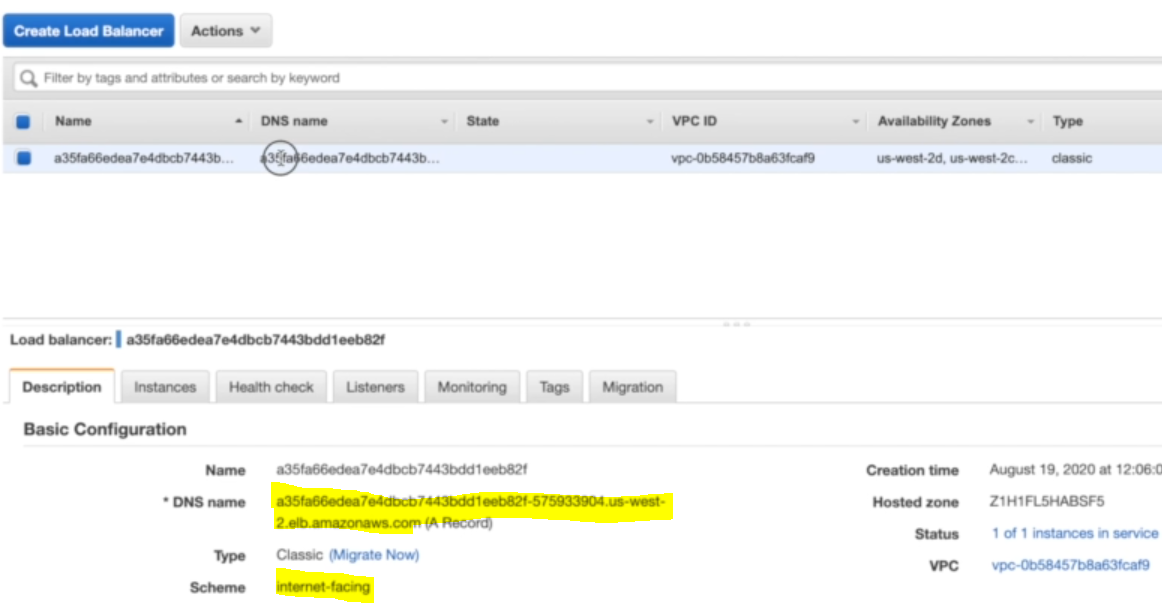
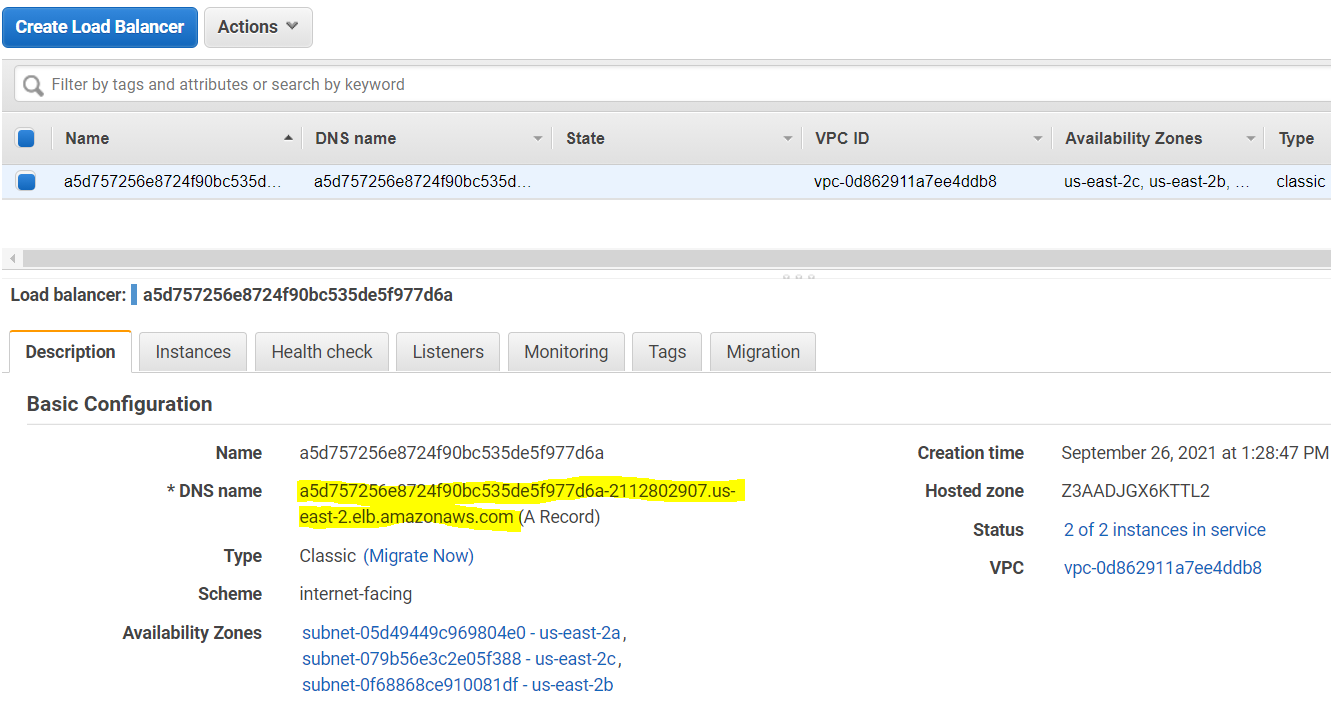
changes

diff --git a/Istio - Japan/2_Install/README.md b/Istio - Japan/2_Install/README.md
@@ -2,8 +2,10 @@
 # 2.1 Install Istio using istioctl
 ```sh
 # first install istioctl CLI
-curl -L https://istio.io/downloadIstio | ISTIO_VERSION=1.6.7 sh -
-cd istio-1.6.7
+URL: https://istio.io/latest/docs/ops/diagnostic-tools/istioctl/
+
+curl -L https://istio.io/downloadIstio | ISTIO_VERSION=1.11.3 sh -
+cd istio-1.11.3
 echo "export PATH=$PWD/bin:$PATH" >> ~/.bash_profile
 
 # open new shell to load updated PATH variable
@@ -28,50 +30,6 @@ istioctl profile list
 
 # save config into yaml
 istioctl profile dump demo > profile_demo_config.yaml
-```
-
-Output
-```sh
-apiVersion: install.istio.io/v1alpha1
-kind: IstioOperator
-spec:
-  addonComponents:
-    grafana:
-      enabled: true
-      k8s:
-        replicaCount: 1
-    istiocoredns:
-      enabled: false
-    kiali:
-      enabled: true
-      k8s:
-        replicaCount: 1
-    prometheus:
-      enabled: true
-      k8s:
-        replicaCount: 1
-    tracing:
-      enabled: true
-  components:
-    base:
-      enabled: true
-    citadel:
-      enabled: false
-      k8s:
-        strategy:
-          rollingUpdate:
-            maxSurge: 100%
-            maxUnavailable: 25%
-    cni:
-      enabled: false
-    egressGateways:
-    - enabled: true
-      k8s:
-        resources:
-          requests:
-            cpu: 10m
-            memory: 40Mi
-      name: istio-egressgateway
 ```
 
 ```sh
@@ -123,34 +81,22 @@ kubectl get pod,svc -n istio-system
 
 # output
 NAME                                        READY   STATUS    RESTARTS   AGE
-pod/grafana-5cc7f86765-krwvf                1/1     Running   0          5m51s
-pod/istio-egressgateway-5c8f9897f7-sfqg6    1/1     Running   0          29m
-pod/istio-ingressgateway-65dd885d75-bbqtn   1/1     Running   0          29m
-pod/istio-tracing-8584b4d7f9-whwjr          1/1     Running   0          5m39s
-pod/istiod-7d6dff85dd-w5szx                 1/1     Running   0          29m
-pod/kiali-696bb665-sngrt                    1/1     Running   0          5m43s
-pod/prometheus-564768879c-w55nb             2/2     Running   0          5m39s
+pod/istio-egressgateway-5fdc76bf94-lkmj8    1/1     Running   0          5m55s
+pod/istio-ingressgateway-6bd7764b48-kv9f6   1/1     Running   0          5m55s
+pod/istiod-675949b7c5-ml5gc                 1/1     Running   0          6m7s
 
-NAME                                TYPE           CLUSTER-IP       EXTERNAL-IP                                                              PORT(S)                                                                                                                                      AGE
-service/grafana                     ClusterIP      172.20.151.105   <none>                                                                   3000/TCP                                                                                                                                     5m50s
-service/istio-egressgateway         ClusterIP      172.20.208.92    <none>                                                                   80/TCP,443/TCP,15443/TCP                                                                                                                     29m
-service/istio-ingressgateway        LoadBalancer   172.20.170.225   aa7cfd0021476452ba8c3836365f2df3-478100139.us-east-1.elb.amazonaws.com   15020:31474/TCP,80:30046/TCP,443:31013/TCP,15029:31841/TCP,15030:31961/TCP,15031:30599/TCP,15032:30637/TCP,31400:31608/TCP,15443:32324/TCP   29m
-service/istio-pilot                 ClusterIP      172.20.97.20     <none>                                                                   15010/TCP,15011/TCP,15012/TCP,8080/TCP,15014/TCP,443/TCP                                                                                     29m
-service/istiod                      ClusterIP      172.20.236.155   <none>                                                                   15012/TCP,443/TCP                                                                                                                            29m
-service/jaeger-agent                ClusterIP      None             <none>                                                                   5775/UDP,6831/UDP,6832/UDP                                                                                                                   5m35s
-service/jaeger-collector            ClusterIP      172.20.177.164   <none>                                                                   14267/TCP,14268/TCP,14250/TCP                                                                                                                5m37s
-service/jaeger-collector-headless   ClusterIP      None             <none>                                                                   14250/TCP                                                                                                                                    5m36s
-service/jaeger-query                ClusterIP      172.20.116.249   <none>                                                                   16686/TCP                                                                                                                                    5m38s
-service/kiali                       ClusterIP      172.20.253.248   <none>                                                                   20001/TCP                                                                                                                                    5m45s
-service/prometheus                  ClusterIP      172.20.101.184   <none>                                                                   9090/TCP                                                                                                                                     5m41s
-service/tracing                     ClusterIP      172.20.143.171   <none>                                                                   80/TCP                                                                                                                                       5m33s
-service/zipkin                      ClusterIP      172.20.170.147   <none>                                                                   9411/TCP                                          
+NAME                           TYPE           CLUSTER-IP       EXTERNAL-IP                                                               PORT(S)
+                                                       AGE
+service/istio-egressgateway    ClusterIP      10.100.233.246   <none>                                                                    80/TCP,443/TCP        
+                                                       5m55s
+service/istio-ingressgateway   LoadBalancer   10.100.236.78    a5d757256e8724f90bc535de5f977d6a-2112802907.us-east-2.elb.amazonaws.com   15021:32297/TCP,80:32369/TCP,443:31035/TCP,31400:30002/TCP,15443:31727/TCP   5m55s
+service/istiod                 ClusterIP      10.100.243.65    <none>                                                                    15010/TCP,15012/TCP,443/TCP,15014/TCP                                        6m6s                                         
 ```
 
 
 Notice a service `istio-ingressgateway` in `istio-system` namespace created AWS ELB of type classic load balancer
 ```
-service/istio-ingressgateway        LoadBalancer   10.100.229.231   a5a1acc36239d46038f3dd828465c946-706040707.us-west-2.elb.amazonaws.com   15020:32676/TCP,80:32703/TCP,443:30964/TCP,31400:30057/TCP,15443:32059/TCP   15m
+service/istio-ingressgateway   LoadBalancer   10.100.236.78    a5d757256e8724f90bc535de5f977d6a-2112802907.us-east-2.elb.amazonaws.com   15021:32297/TCP,80:32369/TCP,443:31035/TCP,31400:30002/TCP,15443:31727/TCP   5m55s
 ```
 
 Check AWS ELB created by istio ingress gateway service
@@ -158,7 +104,7 @@ Check AWS ELB created by istio ingress gateway service
 ![alt text](../imgs/ingress_gateway_aws_elb.png "Istio")
 
 
-Also notice a pod `istiod-7d6dff85dd-w5szx`. 
+Also notice a pod `istiod-675949b7c5-ml5gc`. 
 This is the pod that contains istio pilot (service discovery), Galley (config), sidecar injector, that is `istiod`.
 > istiod unifies functionality that Pilot, Galley, Citadel and the sidecar injector previously performed, into a single binary
 

diff --git a/Istio - Japan/4_Deploy_Apps/README.md b/Istio - Japan/4_Deploy_Apps/README.md
@@ -1,7 +1,7 @@
 # 4. Deploy Sample App to EKS and Expose Service using Ingress
 
 Refs: 
-- https://github.com/kubernetes/examples/tree/master/guestbook
+- https://github.com/kubernetes/examples/tree/master/guestbook/all-in-one
 
 ![alt text](../imgs/guestbook_architecture.png "K8s Architecture")
 
@@ -15,23 +15,17 @@ Backend Redis
 - multi slaves (read)
 - slaves sync continuously from master
 
-+++ NEW +++
+
 ```
 kubectl apply -f guestbook-all-in-one.yaml
 ```
-+++ NEW +++
-
-![alt text](../imgs/guestbook_install.png "Guestbook")
-
-
-
 
 ## 4.4 Get external ELB DNS
 ```sh
-echo $(kubectl  get svc guestbook | awk '{ print $4 }' | tail -1):$(kubectl  get svc guestbook | awk '{ print $5 }' | tail -1 | cut -d ":" -f 1)
+echo $(kubectl  get svc frontend | awk '{ print $4 }' | tail -1):$(kubectl  get svc frontend | awk '{ print $5 }' | tail -1 | cut -d ":" -f 1)
 
 # output
-a24ac71d1c2e046f59e46720494f5322-359345983.us-west-2.elb.amazonaws.com:3000
+a8274ce21a7f94416a5b6214f6f50205-1187236704.us-east-2.elb.amazonaws.com:80
 ```
 
 Visit it from browser __after 3-5 minutes when ELB is ready__
@@ -51,28 +45,41 @@ helm repo update
 
 kubectl create namespace nginx-ingress-controller
 helm install nginx-ingress-controller nginx-stable/nginx-ingress -n nginx-ingress-controller
+k -n nginx-ingress-controller get pods,svc,deploy
 ```
+Output
+```bash
+NAME                                                          READY   STATUS    RESTARTS   AGE
+pod/nginx-ingress-controller-nginx-ingress-7ffc9b45c7-c2ctt   1/1     Running   0          30s
 
+NAME                                             TYPE           CLUSTER-IP       EXTERNAL-IP                                                               PORT(S)                      AGE
+service/nginx-ingress-controller-nginx-ingress   LoadBalancer   10.100.238.201   a920ec60b98b04397b3664926be309a3-1107836477.us-east-2.elb.amazonaws.com   80:30973/TCP,443:31900/TCP   31s
 
+NAME                                                     READY   UP-TO-DATE   AVAILABLE   AGE
+deployment.apps/nginx-ingress-controller-nginx-ingress   1/1     1            1           31s
+```
 ## 4.7 Create Ingress resource for L7 load balancing by http hosts & paths
 
 [ingress.yaml](ingress.yaml)
 ```yaml
-apiVersion: extensions/v1beta1
-  kind: Ingress
-  metadata:
-    annotations:
-      kubernetes.io/ingress.class: nginx
-    name: guestbook
-    namespace: default
-  spec:
-    rules:
-      - http:
-          paths:
-            - backend:
-                serviceName: guestbook
-                servicePort: 3000 
-              path: /
+apiVersion: networking.k8s.io/v1
+kind: Ingress
+metadata:
+  name: frontend
+  annotations:
+    kubernetes.io/ingress.class: "nginx"
+    nginx.ingress.kubernetes.io/rewrite-target: /
+spec:
+  rules:
+  - http:
+      paths:
+      - path: /
+        pathType: Prefix
+        backend:
+          service:
+            name: frontend
+            port:
+              number: 80
 ```
 
 Create ingress resource
@@ -82,13 +89,13 @@ kubectl apply -f ingress.yaml
 
 Get the public DNS of AWS ELB created from the `nginx-ingress-controller-controller` service
 ```bash
-kubectl  get svc nginx-ingress-controller-controller -n nginx-ingress-controller | awk '{ print $4 }' | tail -1
+kubectl  get svc nginx-ingress-controller-nginx-ingress -n nginx-ingress-controller | awk '{ print $4 }' | tail -1
 ```
 
 Output
 ```bash
 # visit this from browser
-a588cbec4e4e34e1bbc1cc066f38e3e0-1988798789.us-west-2.elb.amazonaws.com
+a920ec60b98b04397b3664926be309a3-1107836477.us-east-2.elb.amazonaws.com
 ```
 
 ![alt text](../imgs/guestbook_ui_from_ingress.png "K8s Architecture")
@@ -99,43 +106,7 @@ Now modify `guestbook` service type from `LoadBalancer` to `NodePort`.
 
 First get yaml 
 ```bash
-kubectl get svc guestbook -o yaml
-```
-
-Output
-```yaml
-apiVersion: v1
-kind: Service
-metadata:
-  annotations:
-    kubectl.kubernetes.io/last-applied-configuration: |
-      {"apiVersion":"v1","kind":"Service","metadata":{"annotations":{},"labels":{"app":"guestbook"},"name":"guestbook","namespace":"default"},"spec":{"ports":[{"port":3000,"targetPort":"http-server"}],"selector":{"app":"guestbook"},"type":"LoadBalancer"}}
-  creationTimestamp: "2020-06-13T14:20:12Z"
-  finalizers:
-  - service.kubernetes.io/load-balancer-cleanup
-  labels:
-    app: guestbook
-  name: guestbook
-  namespace: default
-  resourceVersion: "14757"
-  selfLink: /api/v1/namespaces/default/services/guestbook
-  uid: 24ac71d1-c2e0-46f5-9e46-720494f5322b
-spec:
-  clusterIP: 10.100.36.45
-  externalTrafficPolicy: Cluster
-  ports:
-  - nodePort: 30604
-    port: 3000
-    protocol: TCP
-    targetPort: http-server
-  selector:
-    app: guestbook
-  sessionAffinity: None
-  type: LoadBalancer
-status:
-  loadBalancer:
-    ingress:
-    - hostname: a24ac71d1c2e046f59e46720494f5322-359345983.us-west-2.elb.amazonaws.com
+kubectl get svc frontend -o yaml
 ```
 
 Strip out `status` etc that are added after created
@@ -144,25 +115,26 @@ Strip out `status` etc that are added after created
 apiVersion: v1
 kind: Service
 metadata:
-  annotations:
+  name: frontend
   labels:
     app: guestbook
-  name: guestbook
-  namespace: default
+    tier: frontend
 spec:
+  # comment or delete the following line if you want to use a LoadBalancer
+  type: NodePort 
+  # if your cluster supports it, uncomment the following to automatically create
+  # an external load-balanced IP for the frontend service.
+  # type: LoadBalancer
   ports:
-  - nodePort: 30605
-    port: 3000
-    protocol: TCP
-    targetPort: http-server
+  - port: 80
   selector:
     app: guestbook
-  type: NodePort
+    tier: frontend
 ```
 
 Delete the existing `guestbook` service as service is immutable
 ```bash
-kubectl delete svc guestbook
+kubectl delete svc frontend
 ```
 
 Then apply new service
@@ -174,17 +146,17 @@ Check services in `default` namespace
 ```bash
 $ kubectl get svc
 
-NAME           TYPE        CLUSTER-IP      EXTERNAL-IP   PORT(S)          AGE
-guestbook      NodePort    10.100.53.19    <none>        3000:30605/TCP   20s
-kubernetes     ClusterIP   10.100.0.1      <none>        443/TCP          3h38m
-redis-master   ClusterIP   10.100.174.46   <none>        6379/TCP         77m
-redis-slave    ClusterIP   10.100.103.40   <none>        6379/TCP         76m
+NAME           TYPE        CLUSTER-IP       EXTERNAL-IP   PORT(S)        AGE
+frontend       NodePort    10.100.19.222    <none>        80:31078/TCP   6s
+kubernetes     ClusterIP   10.100.0.1       <none>        443/TCP        101m
+redis-master   ClusterIP   10.100.181.236   <none>        6379/TCP       41m
+redis-slave    ClusterIP   10.100.27.82     <none>        6379/TCP       41m
 ```
 
 Lastly, check ingress controller's public DNS is reachable from browser
 ```bash
 # visit the URL from browser
-kubectl  get svc nginx-ingress-controller-controller -n nginx-ingress-controller | awk '{ print $4 }' | tail -1
+kubectl  get svc nginx-ingress-controller-nginx-ingress -n nginx-ingress-controller | awk '{ print $4 }' | tail -1
 ```
 
 ## 4.9  What Just Happened?

diff --git a/Istio - Japan/3_Monitoring_Telemetry/README.md b/Istio - Japan/3_Monitoring_Telemetry/README.md
@@ -15,8 +15,12 @@ istiod-648555b9b7-qgtg9                 1/1     Running   0          23m
 ![alt text](../imgs/kiali_install.PNG "Kiali")
 ![alt text](../imgs/Grafana_Install.PNG "Grafana")
 ![alt text](../imgs/kiali_pod.PNG "Kiali")
-## 3.1 Check Grafana dashboard
+## 3.1 Install
 ```
+kubectl apply -f https://raw.githubusercontent.com/istio/istio/release-1.11/samples/addons/prometheus.yaml
+kubectl apply -f https://raw.githubusercontent.com/istio/istio/release-1.11/samples/addons/kiali.yaml
+kubectl apply -f https://raw.githubusercontent.com/istio/istio/release-1.11/samples/addons/grafana.yaml
+
 istioctl dashboard grafana
 ```
 
